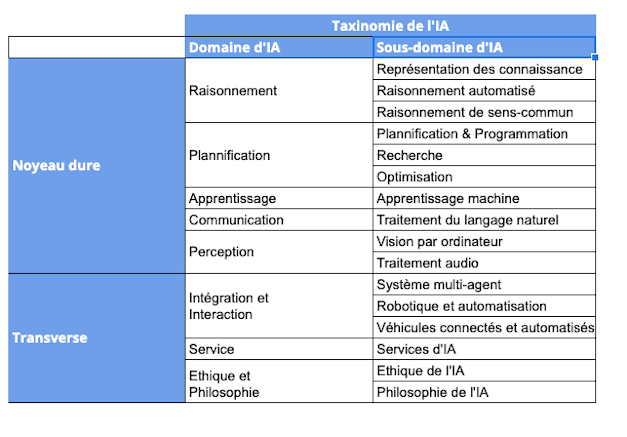
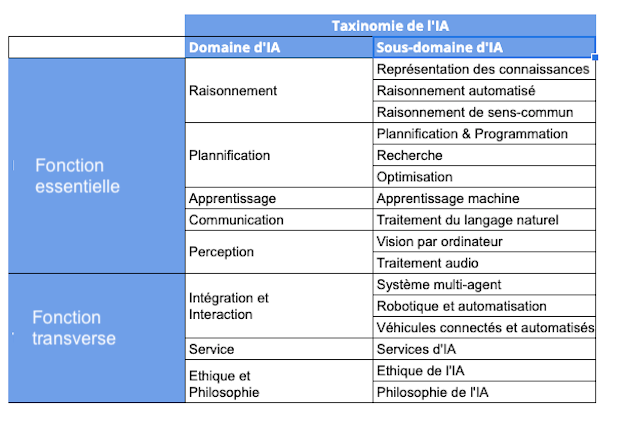
Review of module 2 and fixing mistranslations in taxonomy images

Changed region(s): [[0.0, 0.714, 0.1818, 0.8032], [0.0, 0.357, 0.2121, 0.4462], [0.9091, 0.1487, 0.9394, 0.1785]]

diff --git a/docs/1-Mooc/module-2-what-is-meant-by-ai/2-2-what-is-artificial-intelligence-actually/2-2-5-what-types-of-ai-used-in-education.fr.md b/docs/1-Mooc/module-2-what-is-meant-by-ai/2-2-what-is-artificial-intelligence-actually/2-2-5-what-types-of-ai-used-in-education.fr.md
@@ -4,12 +4,12 @@ description: Les systèmes d'IA existants, leurs utilisations potentielles ou ex
 ---
 ??? info "Metadata"
     - Id: EU.AI4T.O1.M2.2.5t
-    - Title: 
+    - Title:
     - Type: text
-    - Description: 
+    - Description:
     - Subject: Artificial Intelligence for and by Teachers
     - Authors:
-        - AI4T 
+        - AI4T
     - Licence: CC BY 4.0
     - Date: 2022-11-15
 
@@ -17,13 +17,13 @@ description: Les systèmes d'IA existants, leurs utilisations potentielles ou ex
 
 Parmi les classifications possibles des domaines scientifiques de l'IA, le tableau suivant présente une taxonomie de l'IA[^1] par rapport aux fonctions de la famille que peut remplir l'IA.
 <figure>
-  <img src="Images/AI-Taxonomy-Samoli-al-2021-FR.png" alt="Image of AI Taxonomy"/>  
+  <img src="Images/AI-Taxonomy-Samoli-al-2021-fr.png" alt="Image of AI Taxonomy"/>  
 </figure>
 _Figure : Taxonomie de l'IA - domaines et sous-domaines scientifiques de l'IA (d'après Samoili &amp; al., 2021 JRC report[^1])._
 
 Voyons quelles techniques d'IA sont utilisées dans les applications orientées éducation basées sur l'IA proposées par Holmes &amp; al. en 2019[^2].
 <figure>
-  <img src="Images/AIED-Holmes-systems-FR.png" alt="Image of AI-based education-oriented systems"/>
+  <img src="Images/AIED-Holmes-systems-fr.png" alt="Image of AI-based education-oriented systems"/>
 </figure>
 _Figure : Différents types de systèmes actuels basés sur l'IA pour l'éducation (d'après Holmes &amp; al. 2019[^2])._
 
@@ -37,7 +37,7 @@ De tels systèmes sont susceptibles d'utiliser : des techniques de **communicati
 - **Recommandation de cours**, en tant que service de soutien aux apprenants.
 Comme pour les offres commerciales personnalisées et les fonctions de recommandation que l'on peut trouver sur Internet, les systèmes de recommandation de cours sont probablement basés sur des techniques d'apprentissage automatique en analysant les données actuelles pertinentes liées au parcours d'apprentissage de l'étudiant et en identifiant les similitudes avec des parcours d'apprentissage généralisés antérieurs.
 
-- **Détection de l'attention et des émotions de l'étudiant**, en tant que service d'aide à l'enseignant. << ce point doit être repris et délimité au seul maintien de l'engagement de l'élève >>
+- **Détection de l'attention et des émotions de l'étudiant**, en tant que service d'aide à l'enseignant.
 Un tel système est susceptible d'utiliser des techniques de **perception** (vision par ordinateur pour la reconnaissance faciale, par exemple) et des techniques d'**apprentissage automatique** pour analyser les expressions faciales ou le comportement de l'apprenant, si ces informations sont collectées et analysées.
 
 
